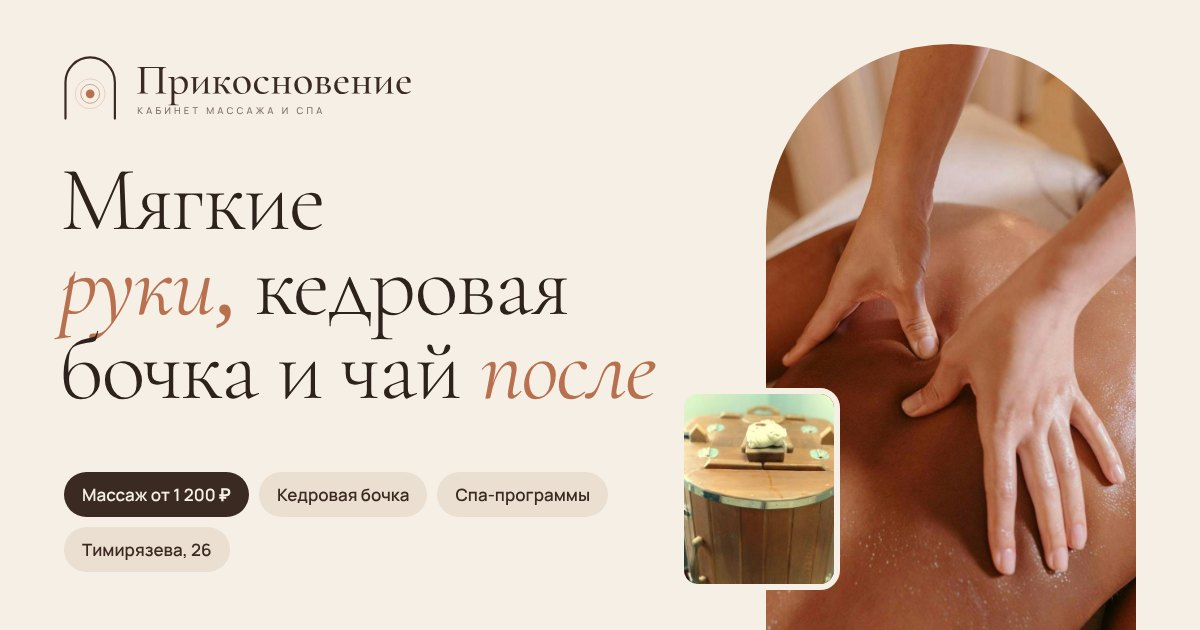
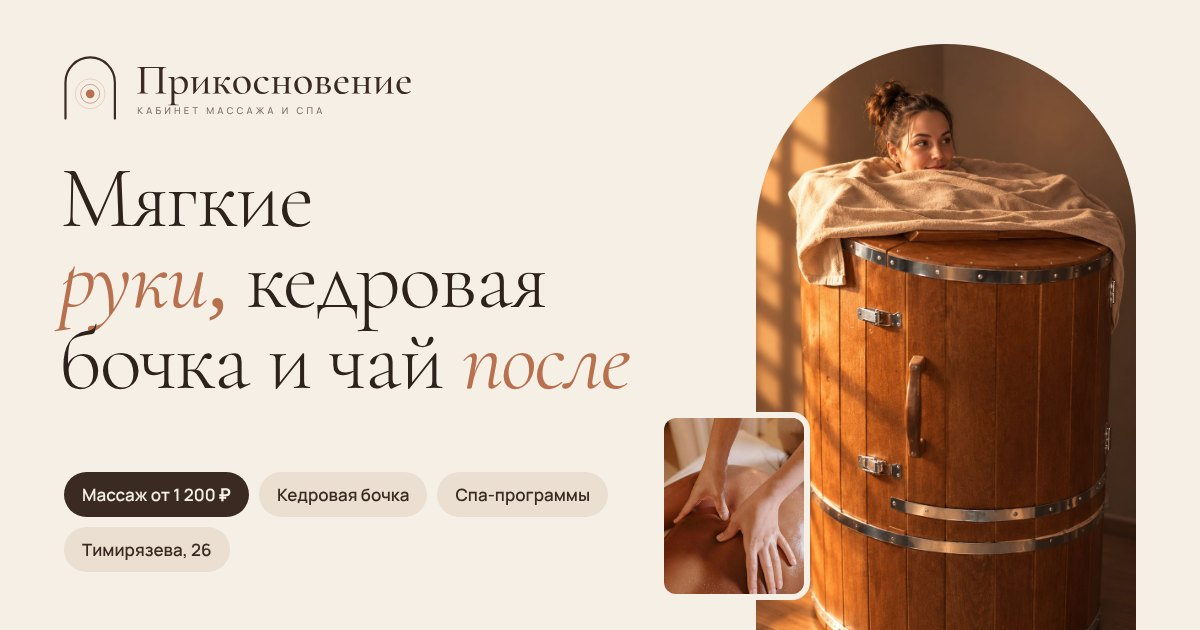
Prikosnoveniye: client barrel photos, fix cursor artefact, slower button fill, new share image
Claude-Session: https://claude.ai/code/session_015USu4KNjEKHCy8jYVKss7P

diff --git a/prikosnoveniye/index.html b/prikosnoveniye/index.html
@@ -12,13 +12,13 @@
 <meta property="og:locale" content="ru_RU">
 <meta property="og:title" content="Прикосновение · кабинет массажа и СПА в Хабаровске">
 <meta property="og:description" content="Мягкие руки, кедровая бочка и чай после. Массаж, обёртывания и спа-программы на Тимирязева, 26.">
-<meta property="og:image" content="https://staswebdesign.github.io/prikosnoveniye/og.jpg?v=2">
+<meta property="og:image" content="https://staswebdesign.github.io/prikosnoveniye/og.jpg?v=3">
 <meta property="og:image:width" content="1200">
 <meta property="og:image:height" content="630">
 <meta property="og:image:alt" content="Прикосновение: кабинет массажа и СПА в Хабаровске, кедровая бочка и спа-программы">
 <meta property="og:url" content="https://staswebdesign.github.io/prikosnoveniye/">
 <meta name="twitter:card" content="summary_large_image">
-<meta name="twitter:image" content="https://staswebdesign.github.io/prikosnoveniye/og.jpg?v=2">
+<meta name="twitter:image" content="https://staswebdesign.github.io/prikosnoveniye/og.jpg?v=3">
 <link rel="icon" href="brand/favicon.svg" type="image/svg+xml">
 <link rel="icon" href="brand/favicon-32.png" sizes="32x32">
 <link rel="apple-touch-icon" href="brand/apple-touch-icon.png">
@@ -74,13 +74,13 @@ em{font-style:italic}
 .h-l em,.h-xl em{font-weight:400;color:var(--clay)}
 .sub{font-size:17px;line-height:1.65;color:#5a4a41;max-width:480px;margin:22px 0 0}
 .btn{position:relative;overflow:hidden;isolation:isolate;display:inline-flex;align-items:center;justify-content:center;gap:12px;height:56px;padding:0 28px;border-radius:999px;background:var(--cedar);color:var(--milk);font:600 15px/1 var(--sans);white-space:nowrap;border:0;cursor:pointer;transition:transform .5s var(--ease)}
-.btn::before{content:"";position:absolute;z-index:-1;left:var(--x,50%);top:var(--y,50%);width:250%;aspect-ratio:1;border-radius:50%;background:var(--clay);transform:translate(-50%,-50%) scale(0);transition:transform .8s var(--ease)}
+.btn::before{content:"";position:absolute;z-index:-1;left:var(--x,50%);top:var(--y,50%);width:250%;aspect-ratio:1;border-radius:50%;background:var(--clay);transform:translate(-50%,-50%) scale(0);transition:transform 1.5s cubic-bezier(.33,1,.68,1)}
 .btn:hover::before{transform:translate(-50%,-50%) scale(1)}
 .btn .ar{display:inline-block;transition:transform .5s var(--ease)}
 .btn:hover .ar{transform:translateX(4px)}
 .btn-light{background:var(--milk);color:var(--cedar)}
 .btn-light::before{background:var(--honey)}
-.btn-line{background:transparent;color:var(--ink);box-shadow:inset 0 0 0 1px rgba(58,42,34,.3);transition:color .5s var(--ease)}
+.btn-line{background:transparent;color:var(--ink);box-shadow:inset 0 0 0 1px rgba(58,42,34,.3);transition:color .9s cubic-bezier(.33,1,.68,1)}
 .btn-line::before{background:var(--cedar)}
 .btn-line:hover{color:var(--milk)}
 .btn-sm{height:46px;padding:0 22px;font-size:14px}
@@ -259,9 +259,9 @@ em{font-style:italic}
 .row .r-go{justify-self:end;display:inline-flex;align-items:center;gap:8px;height:40px;padding:0 16px;border-radius:999px;border:1px solid var(--line);font-size:13px;font-weight:600;white-space:nowrap;transition:background .4s,color .4s,border-color .4s}
 .row:hover .r-go{background:var(--cedar);color:var(--milk);border-color:var(--cedar)}
 .m-note{margin:22px 0 0;font-size:13px;color:var(--smoke)}
-.hov{position:fixed;left:0;top:0;z-index:60;width:240px;height:300px;border-radius:999px 999px 18px 18px;overflow:hidden;pointer-events:none;opacity:0;transition:opacity .4s;background:var(--linen)}
-.hov.on{opacity:1}
-.hov img{position:absolute;inset:0;width:100%;height:100%;object-fit:cover}
+#hov{position:fixed;left:0;top:0;z-index:60;width:240px;height:300px;border-radius:999px 999px 18px 18px;overflow:hidden;pointer-events:none;opacity:0;transition:opacity .4s;background:var(--linen)}
+#hov.on{opacity:1}
+#hov img{position:absolute;inset:0;width:100%;height:100%;object-fit:cover}
 
 /* cedar */
 .cedar{position:relative;background:var(--cedar);color:var(--milk);padding:var(--sec) 0;overflow:hidden}
@@ -277,7 +277,7 @@ em{font-style:italic}
 .cedar-pics .a{aspect-ratio:4/5}
 .cedar-pics .a img{width:100%;height:120%;object-fit:cover;will-change:transform}
 .cedar-pics .b{position:absolute;right:0;bottom:0;width:44%;aspect-ratio:3/4;border:6px solid var(--cedar)}
-.cedar-pics .b img{width:100%;height:100%;object-fit:cover}
+.cedar-pics .b img{width:100%;height:100%;object-fit:cover;object-position:50% 18%}
 .cedar-txt .sub{color:#d8cbbd;max-width:520px}
 .big-price{display:flex;align-items:center;gap:18px;padding:22px 0;border-top:1px solid rgba(245,239,230,.18);border-bottom:1px solid rgba(245,239,230,.18);margin:30px 0}
 .big-price b{font:300 clamp(52px,4.6vw,72px)/1 var(--serif);color:var(--honey);white-space:nowrap}
@@ -479,7 +479,7 @@ em{font-style:italic}
   .mbar a{flex:1;height:56px;border-radius:999px;display:flex;align-items:center;justify-content:center;gap:10px;background:var(--cedar);color:var(--milk);font-weight:600;font-size:15px;box-shadow:0 14px 34px -14px rgba(42,30,24,.6)}
   .mbar a.wa{flex:0 0 56px;background:var(--clay)}
   .mbar svg{width:22px;height:22px}
-  .hov{display:none}
+  #hov{display:none}
 }
 @media (max-width:400px){.logo b{font-size:22px}.logo small{letter-spacing:.2em}}
 @media (prefers-reduced-motion:reduce){
@@ -622,7 +622,7 @@ em{font-style:italic}
     </div>
     <p class="m-note">Цены не являются публичной офертой. Точную стоимость и время уточнит мастер при записи.</p>
   </div>
-  <div class="hov" id="hov"><img alt=""></div>
+  <div id="hov"><img alt=""></div>
 </section>
 
 <section class="cedar" id="cedar">
@@ -631,7 +631,7 @@ em{font-style:italic}
     <div class="cedar-grid">
       <div class="cedar-pics rv">
         <figure class="a"><img src="img/barrel.jpg" alt="Кедровая бочка в кабинете «Прикосновение»" loading="lazy" data-par="-0.1"></figure>
-        <figure class="b"><img src="img/barreltop.jpg" alt="Крышка кедровой бочки в солнечном свете" loading="lazy"></figure>
+        <figure class="b"><img src="img/barreltop.jpg" alt="Гостья в кедровой бочке" loading="lazy"></figure>
       </div>
       <div class="cedar-txt">
         <p class="kicker rv">Любимое у гостей</p>
